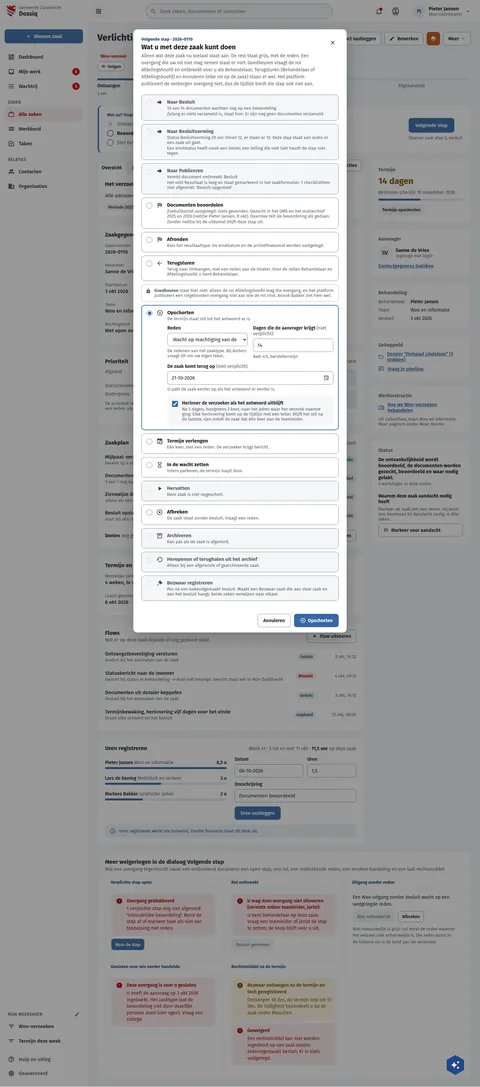
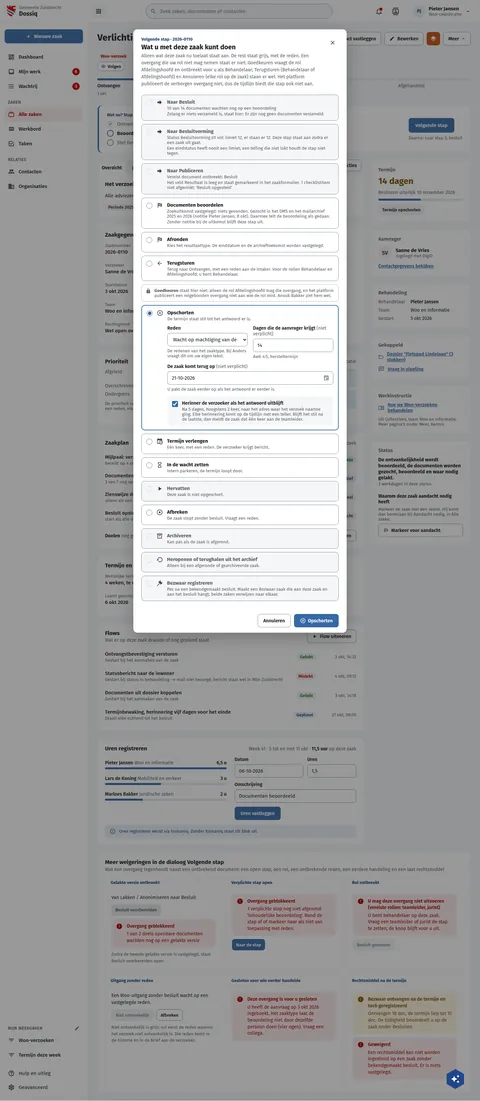
feat(screens): DqVolgendeStap draws the refusal while a redacted version is missing
Assisted-by: ClaudeCode:claude-opus-5-5

diff --git a/preview/screens/boards/DqVolgendeStap.html b/preview/screens/boards/DqVolgendeStap.html
@@ -309,7 +309,7 @@ a{color:var(--sc-primary, #3669a5)}a:hover{color:var(--sc-primary-deep, #234a78)
             <section style="background: #ffffff; border: 1px solid var(--sc-work-line, #e4e6ea); border-radius: 12px; padding: 20px 22px; display: flex; flex-direction: column; gap: 10px"><h2 style="margin: 0; font-size: 15px; font-weight: 600; color: var(--sc-work-muted, #5e6168)">Status</h2><span style="display: flex; flex-direction: column; gap: 2px"><strong style="font-size: 15px">De ontvankelijkheid wordt beoordeeld, de documenten worden gezocht, beoordeeld en waar nodig gelakt.</strong><span style="font-size: 13px; color: var(--sc-work-muted, #5e6168)">3 werkdagen in deze status</span></span><div style="display: flex; flex-direction: column; gap: 6px; padding-top: 10px; border-top: 1px solid var(--sc-work-soft, #eef0f3)"><strong style="font-size: 14px">Waarom deze zaak aandacht nodig heeft</strong><span style="font-size: 13px; color: var(--sc-work-muted, #5e6168)">Markeer de zaak met een reden. Hij komt dan bovenaan bij Aandacht nodig, in Alle zaken.</span><button type="button" style="display: inline-flex; align-items: center; gap: 8px; height: 40px; padding: 0 14px; border-radius: 8px; border: 1px solid var(--sc-work-field, #828a95); background: #ffffff; color: var(--sc-work-ink, #1b1c1d); font: 600 14px var(--sc-font, 'Fira Sans'), sans-serif; white-space: nowrap"><svg width="16" height="16" viewbox="0 0 24 24" fill="currentColor" aria-hidden="true"><path d="M12.36,6L12.76,8H18V14H14.64L14.24,12H7V6H12.36M14,4H5V21H7V14H12.6L13,16H20V6H14.4"></path></svg>Markeer voor aandacht</button></div></section>
           </aside>
         </div>
-        <section aria-label="Meer weigeringen in de dialoog Volgende stap" style="background: #ffffff; border: 1px solid var(--sc-work-line, #e4e6ea); border-radius: 12px; padding: 20px 22px; display: flex; flex-direction: column; gap: 12px"><div style="display: flex; flex-direction: column; gap: 3px"><h2 style="margin: 0; font-size: 17px; font-weight: 700">Meer weigeringen in de dialoog Volgende stap</h2><span style="font-size: 14px; color: var(--sc-work-muted, #5e6168)">Wat een overgang tegenhoudt naast een ontbrekend document: een open stap, een rol, een ontbrekende reden, een eerdere handeling en een laat rechtsmiddel</span></div><div style="display: grid; grid-template-columns: repeat(auto-fit, minmax(300px, 1fr)); gap: 12px"><section aria-label="Verplichte stap open" style="background: #ffffff; border: 1px solid var(--sc-work-line, #e4e6ea); border-radius: 12px; display: flex; flex-direction: column; min-width: 0"><div style="padding: 10px 16px; border-bottom: 1px solid var(--sc-work-soft, #eef0f3); font-size: 13px; font-weight: 700; color: var(--sc-primary-deep, #234a78)">Verplichte stap open</div><div style="padding: 16px 18px 18px; display: flex; flex-direction: column; gap: 10px; font-size: 14px"><div role="status" style="display: flex; gap: 12px; padding: 12px 14px; border-radius: 10px; background: #fbe9e9; color: var(--sc-accent-deep, #a30000)"><svg width="20" height="20" viewbox="0 0 24 24" fill="currentColor" style="flex: none" aria-hidden="true"><path d="M13,13H11V7H13M13,17H11V15H13M12,2A10,10 0 0,0 2,12A10,10 0 0,0 12,22A10,10 0 0,0 22,12A10,10 0 0,0 12,2Z"></path></svg><span style="display: flex; flex-direction: column; gap: 4px; font-size: 14px; line-height: 1.4"><strong style="font-weight: 600">Overgang geblokkeerd</strong><span>1 verplichte stap nog niet afgerond: 'Inhoudelijke beoordeling'. Rond de stap af of markeer haar als niet van toepassing met reden.</span></span></div><div style="display: flex; flex-wrap: wrap; gap: 8px"><button type="button" style="display: inline-flex; align-items: center; gap: 8px; height: 34px; padding: 0 12px; border-radius: 8px; font: 600 13px var(--sc-font, 'Fira Sans'), sans-serif; white-space: nowrap; border: 0; background: var(--sc-primary, #3669a5); color: #ffffff">Naar de stap</button></div></div></section><section aria-label="Rol ontbreekt" style="background: #ffffff; border: 1px solid var(--sc-work-line, #e4e6ea); border-radius: 12px; display: flex; flex-direction: column; min-width: 0"><div style="padding: 10px 16px; border-bottom: 1px solid var(--sc-work-soft, #eef0f3); font-size: 13px; font-weight: 700; color: var(--sc-primary-deep, #234a78)">Rol ontbreekt</div><div style="padding: 16px 18px 18px; display: flex; flex-direction: column; gap: 10px; font-size: 14px"><div role="status" style="display: flex; gap: 12px; padding: 12px 14px; border-radius: 10px; background: #fbe9e9; color: var(--sc-accent-deep, #a30000)"><svg width="20" height="20" viewbox="0 0 24 24" fill="currentColor" style="flex: none" aria-hidden="true"><path d="M13,13H11V7H13M13,17H11V15H13M12,2A10,10 0 0,0 2,12A10,10 0 0,0 12,22A10,10 0 0,0 22,12A10,10 0 0,0 12,2Z"></path></svg><span style="display: flex; flex-direction: column; gap: 4px; font-size: 14px; line-height: 1.4"><strong style="font-weight: 600">U mag deze overgang niet uitvoeren (vereiste rollen: teamleider, jurist)</strong><span>U bent behandelaar op deze zaak. Vraag een teamleider of jurist de stap te zetten; de knop blijft voor u uit.</span></span></div><div style="display: flex; flex-wrap: wrap; gap: 8px"><button type="button" disabled style="display: inline-flex; align-items: center; gap: 8px; height: 34px; padding: 0 12px; border-radius: 8px; font: 600 13px var(--sc-font, 'Fira Sans'), sans-serif; white-space: nowrap; border: 1px solid var(--sc-work-line, #e4e6ea); background: var(--sc-work-chip, #f0f1f3); color: var(--sc-work-field, #828a95)">Besluit genomen</button></div></div></section><section aria-label="Uitgang zonder reden" style="background: #ffffff; border: 1px solid var(--sc-work-line, #e4e6ea); border-radius: 12px; display: flex; flex-direction: column; min-width: 0"><div style="padding: 10px 16px; border-bottom: 1px solid var(--sc-work-soft, #eef0f3); font-size: 13px; font-weight: 700; color: var(--sc-primary-deep, #234a78)">Uitgang zonder reden</div><div style="padding: 16px 18px 18px; display: flex; flex-direction: column; gap: 10px; font-size: 14px"><span style="font-size: 14px; line-height: 1.5">Een Woo-uitgang zonder besluit wacht op een vastgelegde reden.</span><div style="display: flex; flex-wrap: wrap; gap: 8px"><button type="button" disabled style="display: inline-flex; align-items: center; gap: 8px; height: 34px; padding: 0 12px; border-radius: 8px; font: 600 13px var(--sc-font, 'Fira Sans'), sans-serif; white-space: nowrap; border: 1px solid var(--sc-work-line, #e4e6ea); background: var(--sc-work-chip, #f0f1f3); color: var(--sc-work-field, #828a95)">Niet ontvankelijk</button><button type="button" style="display: inline-flex; align-items: center; gap: 8px; height: 34px; padding: 0 12px; border-radius: 8px; font: 600 13px var(--sc-font, 'Fira Sans'), sans-serif; white-space: nowrap; border: 1px solid var(--sc-work-field, #828a95); background: #ffffff; color: var(--sc-work-ink, #1b1c1d)">Afbreken</button></div><p style="margin: 0; font-size: 13px; line-height: 1.5; color: var(--sc-work-muted, #5e6168)">Niet ontvankelijk is grijs: vul eerst de reden waarom het verzoek niet ontvankelijk is. Die reden komt in de historie en in de brief aan de verzoeker.</p></div></section><section aria-label="Gesloten voor wie eerder handelde" style="background: #ffffff; border: 1px solid var(--sc-work-line, #e4e6ea); border-radius: 12px; display: flex; flex-direction: column; min-width: 0"><div style="padding: 10px 16px; border-bottom: 1px solid var(--sc-work-soft, #eef0f3); font-size: 13px; font-weight: 700; color: var(--sc-primary-deep, #234a78)">Gesloten voor wie eerder handelde</div><div style="padding: 16px 18px 18px; display: flex; flex-direction: column; gap: 10px; font-size: 14px"><div role="status" style="display: flex; gap: 12px; padding: 12px 14px; border-radius: 10px; background: #fbe9e9; color: var(--sc-accent-deep, #a30000)"><svg width="20" height="20" viewbox="0 0 24 24" fill="currentColor" style="flex: none" aria-hidden="true"><path d="M13,13H11V7H13M13,17H11V15H13M12,2A10,10 0 0,0 2,12A10,10 0 0,0 12,22A10,10 0 0,0 22,12A10,10 0 0,0 12,2Z"></path></svg><span style="display: flex; flex-direction: column; gap: 4px; font-size: 14px; line-height: 1.4"><strong style="font-weight: 600">Deze overgang is voor u gesloten</strong><span>U heeft de aanvraag op 3 okt 2026 ingeboekt. Het zaaktype laat de beoordeling niet door dezelfde persoon doen (vier ogen). Vraag een collega.</span></span></div></div></section><section aria-label="Rechtsmiddel na de termijn" style="background: #ffffff; border: 1px solid var(--sc-work-line, #e4e6ea); border-radius: 12px; display: flex; flex-direction: column; min-width: 0"><div style="padding: 10px 16px; border-bottom: 1px solid var(--sc-work-soft, #eef0f3); font-size: 13px; font-weight: 700; color: var(--sc-primary-deep, #234a78)">Rechtsmiddel na de termijn</div><div style="padding: 16px 18px 18px; display: flex; flex-direction: column; gap: 10px; font-size: 14px"><div role="status" style="display: flex; gap: 12px; padding: 12px 14px; border-radius: 10px; background: #fff4de; color: #7a4f00"><svg width="20" height="20" viewbox="0 0 24 24" fill="currentColor" style="flex: none" aria-hidden="true"><path d="M13,13H11V7H13M13,17H11V15H13M12,2A10,10 0 0,0 2,12A10,10 0 0,0 12,22A10,10 0 0,0 22,12A10,10 0 0,0 12,2Z"></path></svg><span style="display: flex; flex-direction: column; gap: 4px; font-size: 14px; line-height: 1.4"><strong style="font-weight: 600">Bezwaar ontvangen na de termijn en toch geregistreerd</strong><span>Ontvangen 18 dec, de termijn liep tot 15 dec. De tijdigheid beoordeelt u op de zaak onder Besluiten.</span></span></div><div role="status" style="display: flex; gap: 12px; padding: 12px 14px; border-radius: 10px; background: #fbe9e9; color: var(--sc-accent-deep, #a30000)"><svg width="20" height="20" viewbox="0 0 24 24" fill="currentColor" style="flex: none" aria-hidden="true"><path d="M13,13H11V7H13M13,17H11V15H13M12,2A10,10 0 0,0 2,12A10,10 0 0,0 12,22A10,10 0 0,0 22,12A10,10 0 0,0 12,2Z"></path></svg><span style="display: flex; flex-direction: column; gap: 4px; font-size: 14px; line-height: 1.4"><strong style="font-weight: 600">Geweigerd</strong><span>Een rechtsmiddel kan niet worden ingediend op een zaak zonder bekendgemaakt besluit. Er is niets vastgelegd.</span></span></div></div></section></div></section>
+        <section aria-label="Meer weigeringen in de dialoog Volgende stap" style="background: #ffffff; border: 1px solid var(--sc-work-line, #e4e6ea); border-radius: 12px; padding: 20px 22px; display: flex; flex-direction: column; gap: 12px"><div style="display: flex; flex-direction: column; gap: 3px"><h2 style="margin: 0; font-size: 17px; font-weight: 700">Meer weigeringen in de dialoog Volgende stap</h2><span style="font-size: 14px; color: var(--sc-work-muted, #5e6168)">Wat een overgang tegenhoudt naast een ontbrekend document: een open stap, een rol, een ontbrekende reden, een eerdere handeling en een laat rechtsmiddel</span></div><div style="display: grid; grid-template-columns: repeat(auto-fit, minmax(300px, 1fr)); gap: 12px"><section aria-label="Gelakte versie ontbreekt" style="background: #ffffff; border: 1px solid var(--sc-work-line, #e4e6ea); border-radius: 12px; display: flex; flex-direction: column; min-width: 0"><div style="padding: 10px 16px; border-bottom: 1px solid var(--sc-work-soft, #eef0f3); font-size: 13px; font-weight: 700; color: var(--sc-primary-deep, #234a78)">Gelakte versie ontbreekt</div><div style="padding: 16px 18px 18px; display: flex; flex-direction: column; gap: 10px; font-size: 14px"><span style="font-size: 14px; line-height: 1.5">Van Lakken / Anonimiseren naar Besluit</span><div style="display: flex; flex-wrap: wrap; gap: 8px"><button type="button" disabled aria-disabled="true" style="display: inline-flex; align-items: center; gap: 8px; height: 34px; padding: 0 12px; border-radius: 8px; font: 600 13px var(--sc-font, 'Fira Sans'), sans-serif; white-space: nowrap; border: 0; background: var(--sc-work-line, #e4e6ea); color: var(--sc-work-muted, #5e6168); cursor: not-allowed">Besluit voorbereiden</button></div><div role="status" style="display: flex; gap: 12px; padding: 12px 14px; border-radius: 10px; background: #fbe9e9; color: var(--sc-accent-deep, #a30000)"><svg width="20" height="20" viewbox="0 0 24 24" fill="currentColor" style="flex: none" aria-hidden="true"><path d="M13,13H11V7H13M13,17H11V15H13M12,2A10,10 0 0,0 2,12A10,10 0 0,0 12,22A10,10 0 0,0 22,12A10,10 0 0,0 12,2Z"></path></svg><span style="display: flex; flex-direction: column; gap: 4px; font-size: 14px; line-height: 1.4"><strong style="font-weight: 600">Overgang geblokkeerd</strong><span>1 van 2 deels openbare documenten wachten nog op een gelakte versie</span></span></div><p style="margin: 0; font-size: 13px; line-height: 1.5; color: var(--sc-work-muted, #5e6168)">Zodra de tweede gelakte versie is vastgelegd, staat Besluit voorbereiden open.</p></div></section><section aria-label="Verplichte stap open" style="background: #ffffff; border: 1px solid var(--sc-work-line, #e4e6ea); border-radius: 12px; display: flex; flex-direction: column; min-width: 0"><div style="padding: 10px 16px; border-bottom: 1px solid var(--sc-work-soft, #eef0f3); font-size: 13px; font-weight: 700; color: var(--sc-primary-deep, #234a78)">Verplichte stap open</div><div style="padding: 16px 18px 18px; display: flex; flex-direction: column; gap: 10px; font-size: 14px"><div role="status" style="display: flex; gap: 12px; padding: 12px 14px; border-radius: 10px; background: #fbe9e9; color: var(--sc-accent-deep, #a30000)"><svg width="20" height="20" viewbox="0 0 24 24" fill="currentColor" style="flex: none" aria-hidden="true"><path d="M13,13H11V7H13M13,17H11V15H13M12,2A10,10 0 0,0 2,12A10,10 0 0,0 12,22A10,10 0 0,0 22,12A10,10 0 0,0 12,2Z"></path></svg><span style="display: flex; flex-direction: column; gap: 4px; font-size: 14px; line-height: 1.4"><strong style="font-weight: 600">Overgang geblokkeerd</strong><span>1 verplichte stap nog niet afgerond: 'Inhoudelijke beoordeling'. Rond de stap af of markeer haar als niet van toepassing met reden.</span></span></div><div style="display: flex; flex-wrap: wrap; gap: 8px"><button type="button" style="display: inline-flex; align-items: center; gap: 8px; height: 34px; padding: 0 12px; border-radius: 8px; font: 600 13px var(--sc-font, 'Fira Sans'), sans-serif; white-space: nowrap; border: 0; background: var(--sc-primary, #3669a5); color: #ffffff">Naar de stap</button></div></div></section><section aria-label="Rol ontbreekt" style="background: #ffffff; border: 1px solid var(--sc-work-line, #e4e6ea); border-radius: 12px; display: flex; flex-direction: column; min-width: 0"><div style="padding: 10px 16px; border-bottom: 1px solid var(--sc-work-soft, #eef0f3); font-size: 13px; font-weight: 700; color: var(--sc-primary-deep, #234a78)">Rol ontbreekt</div><div style="padding: 16px 18px 18px; display: flex; flex-direction: column; gap: 10px; font-size: 14px"><div role="status" style="display: flex; gap: 12px; padding: 12px 14px; border-radius: 10px; background: #fbe9e9; color: var(--sc-accent-deep, #a30000)"><svg width="20" height="20" viewbox="0 0 24 24" fill="currentColor" style="flex: none" aria-hidden="true"><path d="M13,13H11V7H13M13,17H11V15H13M12,2A10,10 0 0,0 2,12A10,10 0 0,0 12,22A10,10 0 0,0 22,12A10,10 0 0,0 12,2Z"></path></svg><span style="display: flex; flex-direction: column; gap: 4px; font-size: 14px; line-height: 1.4"><strong style="font-weight: 600">U mag deze overgang niet uitvoeren (vereiste rollen: teamleider, jurist)</strong><span>U bent behandelaar op deze zaak. Vraag een teamleider of jurist de stap te zetten; de knop blijft voor u uit.</span></span></div><div style="display: flex; flex-wrap: wrap; gap: 8px"><button type="button" disabled style="display: inline-flex; align-items: center; gap: 8px; height: 34px; padding: 0 12px; border-radius: 8px; font: 600 13px var(--sc-font, 'Fira Sans'), sans-serif; white-space: nowrap; border: 1px solid var(--sc-work-line, #e4e6ea); background: var(--sc-work-chip, #f0f1f3); color: var(--sc-work-field, #828a95)">Besluit genomen</button></div></div></section><section aria-label="Uitgang zonder reden" style="background: #ffffff; border: 1px solid var(--sc-work-line, #e4e6ea); border-radius: 12px; display: flex; flex-direction: column; min-width: 0"><div style="padding: 10px 16px; border-bottom: 1px solid var(--sc-work-soft, #eef0f3); font-size: 13px; font-weight: 700; color: var(--sc-primary-deep, #234a78)">Uitgang zonder reden</div><div style="padding: 16px 18px 18px; display: flex; flex-direction: column; gap: 10px; font-size: 14px"><span style="font-size: 14px; line-height: 1.5">Een Woo-uitgang zonder besluit wacht op een vastgelegde reden.</span><div style="display: flex; flex-wrap: wrap; gap: 8px"><button type="button" disabled style="display: inline-flex; align-items: center; gap: 8px; height: 34px; padding: 0 12px; border-radius: 8px; font: 600 13px var(--sc-font, 'Fira Sans'), sans-serif; white-space: nowrap; border: 1px solid var(--sc-work-line, #e4e6ea); background: var(--sc-work-chip, #f0f1f3); color: var(--sc-work-field, #828a95)">Niet ontvankelijk</button><button type="button" style="display: inline-flex; align-items: center; gap: 8px; height: 34px; padding: 0 12px; border-radius: 8px; font: 600 13px var(--sc-font, 'Fira Sans'), sans-serif; white-space: nowrap; border: 1px solid var(--sc-work-field, #828a95); background: #ffffff; color: var(--sc-work-ink, #1b1c1d)">Afbreken</button></div><p style="margin: 0; font-size: 13px; line-height: 1.5; color: var(--sc-work-muted, #5e6168)">Niet ontvankelijk is grijs: vul eerst de reden waarom het verzoek niet ontvankelijk is. Die reden komt in de historie en in de brief aan de verzoeker.</p></div></section><section aria-label="Gesloten voor wie eerder handelde" style="background: #ffffff; border: 1px solid var(--sc-work-line, #e4e6ea); border-radius: 12px; display: flex; flex-direction: column; min-width: 0"><div style="padding: 10px 16px; border-bottom: 1px solid var(--sc-work-soft, #eef0f3); font-size: 13px; font-weight: 700; color: var(--sc-primary-deep, #234a78)">Gesloten voor wie eerder handelde</div><div style="padding: 16px 18px 18px; display: flex; flex-direction: column; gap: 10px; font-size: 14px"><div role="status" style="display: flex; gap: 12px; padding: 12px 14px; border-radius: 10px; background: #fbe9e9; color: var(--sc-accent-deep, #a30000)"><svg width="20" height="20" viewbox="0 0 24 24" fill="currentColor" style="flex: none" aria-hidden="true"><path d="M13,13H11V7H13M13,17H11V15H13M12,2A10,10 0 0,0 2,12A10,10 0 0,0 12,22A10,10 0 0,0 22,12A10,10 0 0,0 12,2Z"></path></svg><span style="display: flex; flex-direction: column; gap: 4px; font-size: 14px; line-height: 1.4"><strong style="font-weight: 600">Deze overgang is voor u gesloten</strong><span>U heeft de aanvraag op 3 okt 2026 ingeboekt. Het zaaktype laat de beoordeling niet door dezelfde persoon doen (vier ogen). Vraag een collega.</span></span></div></div></section><section aria-label="Rechtsmiddel na de termijn" style="background: #ffffff; border: 1px solid var(--sc-work-line, #e4e6ea); border-radius: 12px; display: flex; flex-direction: column; min-width: 0"><div style="padding: 10px 16px; border-bottom: 1px solid var(--sc-work-soft, #eef0f3); font-size: 13px; font-weight: 700; color: var(--sc-primary-deep, #234a78)">Rechtsmiddel na de termijn</div><div style="padding: 16px 18px 18px; display: flex; flex-direction: column; gap: 10px; font-size: 14px"><div role="status" style="display: flex; gap: 12px; padding: 12px 14px; border-radius: 10px; background: #fff4de; color: #7a4f00"><svg width="20" height="20" viewbox="0 0 24 24" fill="currentColor" style="flex: none" aria-hidden="true"><path d="M13,13H11V7H13M13,17H11V15H13M12,2A10,10 0 0,0 2,12A10,10 0 0,0 12,22A10,10 0 0,0 22,12A10,10 0 0,0 12,2Z"></path></svg><span style="display: flex; flex-direction: column; gap: 4px; font-size: 14px; line-height: 1.4"><strong style="font-weight: 600">Bezwaar ontvangen na de termijn en toch geregistreerd</strong><span>Ontvangen 18 dec, de termijn liep tot 15 dec. De tijdigheid beoordeelt u op de zaak onder Besluiten.</span></span></div><div role="status" style="display: flex; gap: 12px; padding: 12px 14px; border-radius: 10px; background: #fbe9e9; color: var(--sc-accent-deep, #a30000)"><svg width="20" height="20" viewbox="0 0 24 24" fill="currentColor" style="flex: none" aria-hidden="true"><path d="M13,13H11V7H13M13,17H11V15H13M12,2A10,10 0 0,0 2,12A10,10 0 0,0 12,22A10,10 0 0,0 22,12A10,10 0 0,0 12,2Z"></path></svg><span style="display: flex; flex-direction: column; gap: 4px; font-size: 14px; line-height: 1.4"><strong style="font-weight: 600">Geweigerd</strong><span>Een rechtsmiddel kan niet worden ingediend op een zaak zonder bekendgemaakt besluit. Er is niets vastgelegd.</span></span></div></div></section></div></section>
       </main>
     </div>
   </div>

diff --git a/screens-src/zuiddrecht/DqVolgendeStap.dc.html b/screens-src/zuiddrecht/DqVolgendeStap.dc.html
@@ -159,7 +159,7 @@ a{color:#3669a5}a:hover{color:#234a78}
             <section style="background: #ffffff; border: 1px solid #e4e6ea; border-radius: 12px; padding: 20px 22px; display: flex; flex-direction: column; gap: 10px"><h2 style="margin: 0; font-size: 15px; font-weight: 600; color: #5e6168">Status</h2><span style="display: flex; flex-direction: column; gap: 2px"><strong style="font-size: 15px">De ontvankelijkheid wordt beoordeeld, de documenten worden gezocht, beoordeeld en waar nodig gelakt.</strong><span style="font-size: 13px; color: #5e6168">3 werkdagen in deze status</span></span><div style="display: flex; flex-direction: column; gap: 6px; padding-top: 10px; border-top: 1px solid #eef0f3"><strong style="font-size: 14px">Waarom deze zaak aandacht nodig heeft</strong><span style="font-size: 13px; color: #5e6168">Markeer de zaak met een reden. Hij komt dan bovenaan bij Aandacht nodig, in Alle zaken.</span><button type="button" style="display: inline-flex; align-items: center; gap: 8px; height: 40px; padding: 0 14px; border-radius: 8px; border: 1px solid #828a95; background: #ffffff; color: #1b1c1d; font: 600 14px 'Fira Sans', sans-serif; white-space: nowrap"><svg width="16" height="16" viewBox="0 0 24 24" fill="currentColor" aria-hidden="true"><path d="M12.36,6L12.76,8H18V14H14.64L14.24,12H7V6H12.36M14,4H5V21H7V14H12.6L13,16H20V6H14.4"></path></svg>Markeer voor aandacht</button></div></section>
           </aside>
         </div>
-        <section aria-label="Meer weigeringen in de dialoog Volgende stap" style="background: #ffffff; border: 1px solid #e4e6ea; border-radius: 12px; padding: 20px 22px; display: flex; flex-direction: column; gap: 12px"><div style="display: flex; flex-direction: column; gap: 3px"><h2 style="margin: 0; font-size: 17px; font-weight: 700">Meer weigeringen in de dialoog Volgende stap</h2><span style="font-size: 14px; color: #5e6168">Wat een overgang tegenhoudt naast een ontbrekend document: een open stap, een rol, een ontbrekende reden, een eerdere handeling en een laat rechtsmiddel</span></div><div style="display: grid; grid-template-columns: repeat(auto-fit, minmax(300px, 1fr)); gap: 12px"><section aria-label="Verplichte stap open" style="background: #ffffff; border: 1px solid #e4e6ea; border-radius: 12px; display: flex; flex-direction: column; min-width: 0"><div style="padding: 10px 16px; border-bottom: 1px solid #eef0f3; font-size: 13px; font-weight: 700; color: #234a78">Verplichte stap open</div><div style="padding: 16px 18px 18px; display: flex; flex-direction: column; gap: 10px; font-size: 14px"><div role="status" style="display: flex; gap: 12px; padding: 12px 14px; border-radius: 10px; background: #fbe9e9; color: #a30000"><svg width="20" height="20" viewBox="0 0 24 24" fill="currentColor" style="flex: none" aria-hidden="true"><path d="M13,13H11V7H13M13,17H11V15H13M12,2A10,10 0 0,0 2,12A10,10 0 0,0 12,22A10,10 0 0,0 22,12A10,10 0 0,0 12,2Z"></path></svg><span style="display: flex; flex-direction: column; gap: 4px; font-size: 14px; line-height: 1.4"><strong style="font-weight: 600">Overgang geblokkeerd</strong><span>1 verplichte stap nog niet afgerond: 'Inhoudelijke beoordeling'. Rond de stap af of markeer haar als niet van toepassing met reden.</span></span></div><div style="display: flex; flex-wrap: wrap; gap: 8px"><button type="button" style="display: inline-flex; align-items: center; gap: 8px; height: 34px; padding: 0 12px; border-radius: 8px; font: 600 13px 'Fira Sans', sans-serif; white-space: nowrap; border: 0; background: #3669a5; color: #ffffff">Naar de stap</button></div></div></section><section aria-label="Rol ontbreekt" style="background: #ffffff; border: 1px solid #e4e6ea; border-radius: 12px; display: flex; flex-direction: column; min-width: 0"><div style="padding: 10px 16px; border-bottom: 1px solid #eef0f3; font-size: 13px; font-weight: 700; color: #234a78">Rol ontbreekt</div><div style="padding: 16px 18px 18px; display: flex; flex-direction: column; gap: 10px; font-size: 14px"><div role="status" style="display: flex; gap: 12px; padding: 12px 14px; border-radius: 10px; background: #fbe9e9; color: #a30000"><svg width="20" height="20" viewBox="0 0 24 24" fill="currentColor" style="flex: none" aria-hidden="true"><path d="M13,13H11V7H13M13,17H11V15H13M12,2A10,10 0 0,0 2,12A10,10 0 0,0 12,22A10,10 0 0,0 22,12A10,10 0 0,0 12,2Z"></path></svg><span style="display: flex; flex-direction: column; gap: 4px; font-size: 14px; line-height: 1.4"><strong style="font-weight: 600">U mag deze overgang niet uitvoeren (vereiste rollen: teamleider, jurist)</strong><span>U bent behandelaar op deze zaak. Vraag een teamleider of jurist de stap te zetten; de knop blijft voor u uit.</span></span></div><div style="display: flex; flex-wrap: wrap; gap: 8px"><button type="button" disabled style="display: inline-flex; align-items: center; gap: 8px; height: 34px; padding: 0 12px; border-radius: 8px; font: 600 13px 'Fira Sans', sans-serif; white-space: nowrap; border: 1px solid #e4e6ea; background: #f0f1f3; color: #828a95">Besluit genomen</button></div></div></section><section aria-label="Uitgang zonder reden" style="background: #ffffff; border: 1px solid #e4e6ea; border-radius: 12px; display: flex; flex-direction: column; min-width: 0"><div style="padding: 10px 16px; border-bottom: 1px solid #eef0f3; font-size: 13px; font-weight: 700; color: #234a78">Uitgang zonder reden</div><div style="padding: 16px 18px 18px; display: flex; flex-direction: column; gap: 10px; font-size: 14px"><span style="font-size: 14px; line-height: 1.5">Een Woo-uitgang zonder besluit wacht op een vastgelegde reden.</span><div style="display: flex; flex-wrap: wrap; gap: 8px"><button type="button" disabled style="display: inline-flex; align-items: center; gap: 8px; height: 34px; padding: 0 12px; border-radius: 8px; font: 600 13px 'Fira Sans', sans-serif; white-space: nowrap; border: 1px solid #e4e6ea; background: #f0f1f3; color: #828a95">Niet ontvankelijk</button><button type="button" style="display: inline-flex; align-items: center; gap: 8px; height: 34px; padding: 0 12px; border-radius: 8px; font: 600 13px 'Fira Sans', sans-serif; white-space: nowrap; border: 1px solid #828a95; background: #ffffff; color: #1b1c1d">Afbreken</button></div><p style="margin: 0; font-size: 13px; line-height: 1.5; color: #5e6168">Niet ontvankelijk is grijs: vul eerst de reden waarom het verzoek niet ontvankelijk is. Die reden komt in de historie en in de brief aan de verzoeker.</p></div></section><section aria-label="Gesloten voor wie eerder handelde" style="background: #ffffff; border: 1px solid #e4e6ea; border-radius: 12px; display: flex; flex-direction: column; min-width: 0"><div style="padding: 10px 16px; border-bottom: 1px solid #eef0f3; font-size: 13px; font-weight: 700; color: #234a78">Gesloten voor wie eerder handelde</div><div style="padding: 16px 18px 18px; display: flex; flex-direction: column; gap: 10px; font-size: 14px"><div role="status" style="display: flex; gap: 12px; padding: 12px 14px; border-radius: 10px; background: #fbe9e9; color: #a30000"><svg width="20" height="20" viewBox="0 0 24 24" fill="currentColor" style="flex: none" aria-hidden="true"><path d="M13,13H11V7H13M13,17H11V15H13M12,2A10,10 0 0,0 2,12A10,10 0 0,0 12,22A10,10 0 0,0 22,12A10,10 0 0,0 12,2Z"></path></svg><span style="display: flex; flex-direction: column; gap: 4px; font-size: 14px; line-height: 1.4"><strong style="font-weight: 600">Deze overgang is voor u gesloten</strong><span>U heeft de aanvraag op 3 okt 2026 ingeboekt. Het zaaktype laat de beoordeling niet door dezelfde persoon doen (vier ogen). Vraag een collega.</span></span></div></div></section><section aria-label="Rechtsmiddel na de termijn" style="background: #ffffff; border: 1px solid #e4e6ea; border-radius: 12px; display: flex; flex-direction: column; min-width: 0"><div style="padding: 10px 16px; border-bottom: 1px solid #eef0f3; font-size: 13px; font-weight: 700; color: #234a78">Rechtsmiddel na de termijn</div><div style="padding: 16px 18px 18px; display: flex; flex-direction: column; gap: 10px; font-size: 14px"><div role="status" style="display: flex; gap: 12px; padding: 12px 14px; border-radius: 10px; background: #fff4de; color: #7a4f00"><svg width="20" height="20" viewBox="0 0 24 24" fill="currentColor" style="flex: none" aria-hidden="true"><path d="M13,13H11V7H13M13,17H11V15H13M12,2A10,10 0 0,0 2,12A10,10 0 0,0 12,22A10,10 0 0,0 22,12A10,10 0 0,0 12,2Z"></path></svg><span style="display: flex; flex-direction: column; gap: 4px; font-size: 14px; line-height: 1.4"><strong style="font-weight: 600">Bezwaar ontvangen na de termijn en toch geregistreerd</strong><span>Ontvangen 18 dec, de termijn liep tot 15 dec. De tijdigheid beoordeelt u op de zaak onder Besluiten.</span></span></div><div role="status" style="display: flex; gap: 12px; padding: 12px 14px; border-radius: 10px; background: #fbe9e9; color: #a30000"><svg width="20" height="20" viewBox="0 0 24 24" fill="currentColor" style="flex: none" aria-hidden="true"><path d="M13,13H11V7H13M13,17H11V15H13M12,2A10,10 0 0,0 2,12A10,10 0 0,0 12,22A10,10 0 0,0 22,12A10,10 0 0,0 12,2Z"></path></svg><span style="display: flex; flex-direction: column; gap: 4px; font-size: 14px; line-height: 1.4"><strong style="font-weight: 600">Geweigerd</strong><span>Een rechtsmiddel kan niet worden ingediend op een zaak zonder bekendgemaakt besluit. Er is niets vastgelegd.</span></span></div></div></section></div></section>
+        <section aria-label="Meer weigeringen in de dialoog Volgende stap" style="background: #ffffff; border: 1px solid #e4e6ea; border-radius: 12px; padding: 20px 22px; display: flex; flex-direction: column; gap: 12px"><div style="display: flex; flex-direction: column; gap: 3px"><h2 style="margin: 0; font-size: 17px; font-weight: 700">Meer weigeringen in de dialoog Volgende stap</h2><span style="font-size: 14px; color: #5e6168">Wat een overgang tegenhoudt naast een ontbrekend document: een open stap, een rol, een ontbrekende reden, een eerdere handeling en een laat rechtsmiddel</span></div><div style="display: grid; grid-template-columns: repeat(auto-fit, minmax(300px, 1fr)); gap: 12px"><section aria-label="Gelakte versie ontbreekt" style="background: #ffffff; border: 1px solid #e4e6ea; border-radius: 12px; display: flex; flex-direction: column; min-width: 0"><div style="padding: 10px 16px; border-bottom: 1px solid #eef0f3; font-size: 13px; font-weight: 700; color: #234a78">Gelakte versie ontbreekt</div><div style="padding: 16px 18px 18px; display: flex; flex-direction: column; gap: 10px; font-size: 14px"><span style="font-size: 14px; line-height: 1.5">Van Lakken / Anonimiseren naar Besluit</span><div style="display: flex; flex-wrap: wrap; gap: 8px"><button type="button" disabled aria-disabled="true" style="display: inline-flex; align-items: center; gap: 8px; height: 34px; padding: 0 12px; border-radius: 8px; font: 600 13px 'Fira Sans', sans-serif; white-space: nowrap; border: 0; background: #e4e6ea; color: #5e6168; cursor: not-allowed">Besluit voorbereiden</button></div><div role="status" style="display: flex; gap: 12px; padding: 12px 14px; border-radius: 10px; background: #fbe9e9; color: #a30000"><svg width="20" height="20" viewBox="0 0 24 24" fill="currentColor" style="flex: none" aria-hidden="true"><path d="M13,13H11V7H13M13,17H11V15H13M12,2A10,10 0 0,0 2,12A10,10 0 0,0 12,22A10,10 0 0,0 22,12A10,10 0 0,0 12,2Z"></path></svg><span style="display: flex; flex-direction: column; gap: 4px; font-size: 14px; line-height: 1.4"><strong style="font-weight: 600">Overgang geblokkeerd</strong><span>1 van 2 deels openbare documenten wachten nog op een gelakte versie</span></span></div><p style="margin: 0; font-size: 13px; line-height: 1.5; color: #5e6168">Zodra de tweede gelakte versie is vastgelegd, staat Besluit voorbereiden open.</p></div></section><section aria-label="Verplichte stap open" style="background: #ffffff; border: 1px solid #e4e6ea; border-radius: 12px; display: flex; flex-direction: column; min-width: 0"><div style="padding: 10px 16px; border-bottom: 1px solid #eef0f3; font-size: 13px; font-weight: 700; color: #234a78">Verplichte stap open</div><div style="padding: 16px 18px 18px; display: flex; flex-direction: column; gap: 10px; font-size: 14px"><div role="status" style="display: flex; gap: 12px; padding: 12px 14px; border-radius: 10px; background: #fbe9e9; color: #a30000"><svg width="20" height="20" viewBox="0 0 24 24" fill="currentColor" style="flex: none" aria-hidden="true"><path d="M13,13H11V7H13M13,17H11V15H13M12,2A10,10 0 0,0 2,12A10,10 0 0,0 12,22A10,10 0 0,0 22,12A10,10 0 0,0 12,2Z"></path></svg><span style="display: flex; flex-direction: column; gap: 4px; font-size: 14px; line-height: 1.4"><strong style="font-weight: 600">Overgang geblokkeerd</strong><span>1 verplichte stap nog niet afgerond: 'Inhoudelijke beoordeling'. Rond de stap af of markeer haar als niet van toepassing met reden.</span></span></div><div style="display: flex; flex-wrap: wrap; gap: 8px"><button type="button" style="display: inline-flex; align-items: center; gap: 8px; height: 34px; padding: 0 12px; border-radius: 8px; font: 600 13px 'Fira Sans', sans-serif; white-space: nowrap; border: 0; background: #3669a5; color: #ffffff">Naar de stap</button></div></div></section><section aria-label="Rol ontbreekt" style="background: #ffffff; border: 1px solid #e4e6ea; border-radius: 12px; display: flex; flex-direction: column; min-width: 0"><div style="padding: 10px 16px; border-bottom: 1px solid #eef0f3; font-size: 13px; font-weight: 700; color: #234a78">Rol ontbreekt</div><div style="padding: 16px 18px 18px; display: flex; flex-direction: column; gap: 10px; font-size: 14px"><div role="status" style="display: flex; gap: 12px; padding: 12px 14px; border-radius: 10px; background: #fbe9e9; color: #a30000"><svg width="20" height="20" viewBox="0 0 24 24" fill="currentColor" style="flex: none" aria-hidden="true"><path d="M13,13H11V7H13M13,17H11V15H13M12,2A10,10 0 0,0 2,12A10,10 0 0,0 12,22A10,10 0 0,0 22,12A10,10 0 0,0 12,2Z"></path></svg><span style="display: flex; flex-direction: column; gap: 4px; font-size: 14px; line-height: 1.4"><strong style="font-weight: 600">U mag deze overgang niet uitvoeren (vereiste rollen: teamleider, jurist)</strong><span>U bent behandelaar op deze zaak. Vraag een teamleider of jurist de stap te zetten; de knop blijft voor u uit.</span></span></div><div style="display: flex; flex-wrap: wrap; gap: 8px"><button type="button" disabled style="display: inline-flex; align-items: center; gap: 8px; height: 34px; padding: 0 12px; border-radius: 8px; font: 600 13px 'Fira Sans', sans-serif; white-space: nowrap; border: 1px solid #e4e6ea; background: #f0f1f3; color: #828a95">Besluit genomen</button></div></div></section><section aria-label="Uitgang zonder reden" style="background: #ffffff; border: 1px solid #e4e6ea; border-radius: 12px; display: flex; flex-direction: column; min-width: 0"><div style="padding: 10px 16px; border-bottom: 1px solid #eef0f3; font-size: 13px; font-weight: 700; color: #234a78">Uitgang zonder reden</div><div style="padding: 16px 18px 18px; display: flex; flex-direction: column; gap: 10px; font-size: 14px"><span style="font-size: 14px; line-height: 1.5">Een Woo-uitgang zonder besluit wacht op een vastgelegde reden.</span><div style="display: flex; flex-wrap: wrap; gap: 8px"><button type="button" disabled style="display: inline-flex; align-items: center; gap: 8px; height: 34px; padding: 0 12px; border-radius: 8px; font: 600 13px 'Fira Sans', sans-serif; white-space: nowrap; border: 1px solid #e4e6ea; background: #f0f1f3; color: #828a95">Niet ontvankelijk</button><button type="button" style="display: inline-flex; align-items: center; gap: 8px; height: 34px; padding: 0 12px; border-radius: 8px; font: 600 13px 'Fira Sans', sans-serif; white-space: nowrap; border: 1px solid #828a95; background: #ffffff; color: #1b1c1d">Afbreken</button></div><p style="margin: 0; font-size: 13px; line-height: 1.5; color: #5e6168">Niet ontvankelijk is grijs: vul eerst de reden waarom het verzoek niet ontvankelijk is. Die reden komt in de historie en in de brief aan de verzoeker.</p></div></section><section aria-label="Gesloten voor wie eerder handelde" style="background: #ffffff; border: 1px solid #e4e6ea; border-radius: 12px; display: flex; flex-direction: column; min-width: 0"><div style="padding: 10px 16px; border-bottom: 1px solid #eef0f3; font-size: 13px; font-weight: 700; color: #234a78">Gesloten voor wie eerder handelde</div><div style="padding: 16px 18px 18px; display: flex; flex-direction: column; gap: 10px; font-size: 14px"><div role="status" style="display: flex; gap: 12px; padding: 12px 14px; border-radius: 10px; background: #fbe9e9; color: #a30000"><svg width="20" height="20" viewBox="0 0 24 24" fill="currentColor" style="flex: none" aria-hidden="true"><path d="M13,13H11V7H13M13,17H11V15H13M12,2A10,10 0 0,0 2,12A10,10 0 0,0 12,22A10,10 0 0,0 22,12A10,10 0 0,0 12,2Z"></path></svg><span style="display: flex; flex-direction: column; gap: 4px; font-size: 14px; line-height: 1.4"><strong style="font-weight: 600">Deze overgang is voor u gesloten</strong><span>U heeft de aanvraag op 3 okt 2026 ingeboekt. Het zaaktype laat de beoordeling niet door dezelfde persoon doen (vier ogen). Vraag een collega.</span></span></div></div></section><section aria-label="Rechtsmiddel na de termijn" style="background: #ffffff; border: 1px solid #e4e6ea; border-radius: 12px; display: flex; flex-direction: column; min-width: 0"><div style="padding: 10px 16px; border-bottom: 1px solid #eef0f3; font-size: 13px; font-weight: 700; color: #234a78">Rechtsmiddel na de termijn</div><div style="padding: 16px 18px 18px; display: flex; flex-direction: column; gap: 10px; font-size: 14px"><div role="status" style="display: flex; gap: 12px; padding: 12px 14px; border-radius: 10px; background: #fff4de; color: #7a4f00"><svg width="20" height="20" viewBox="0 0 24 24" fill="currentColor" style="flex: none" aria-hidden="true"><path d="M13,13H11V7H13M13,17H11V15H13M12,2A10,10 0 0,0 2,12A10,10 0 0,0 12,22A10,10 0 0,0 22,12A10,10 0 0,0 12,2Z"></path></svg><span style="display: flex; flex-direction: column; gap: 4px; font-size: 14px; line-height: 1.4"><strong style="font-weight: 600">Bezwaar ontvangen na de termijn en toch geregistreerd</strong><span>Ontvangen 18 dec, de termijn liep tot 15 dec. De tijdigheid beoordeelt u op de zaak onder Besluiten.</span></span></div><div role="status" style="display: flex; gap: 12px; padding: 12px 14px; border-radius: 10px; background: #fbe9e9; color: #a30000"><svg width="20" height="20" viewBox="0 0 24 24" fill="currentColor" style="flex: none" aria-hidden="true"><path d="M13,13H11V7H13M13,17H11V15H13M12,2A10,10 0 0,0 2,12A10,10 0 0,0 12,22A10,10 0 0,0 22,12A10,10 0 0,0 12,2Z"></path></svg><span style="display: flex; flex-direction: column; gap: 4px; font-size: 14px; line-height: 1.4"><strong style="font-weight: 600">Geweigerd</strong><span>Een rechtsmiddel kan niet worden ingediend op een zaak zonder bekendgemaakt besluit. Er is niets vastgelegd.</span></span></div></div></section></div></section>
       </main>
     </div>
   </div>
